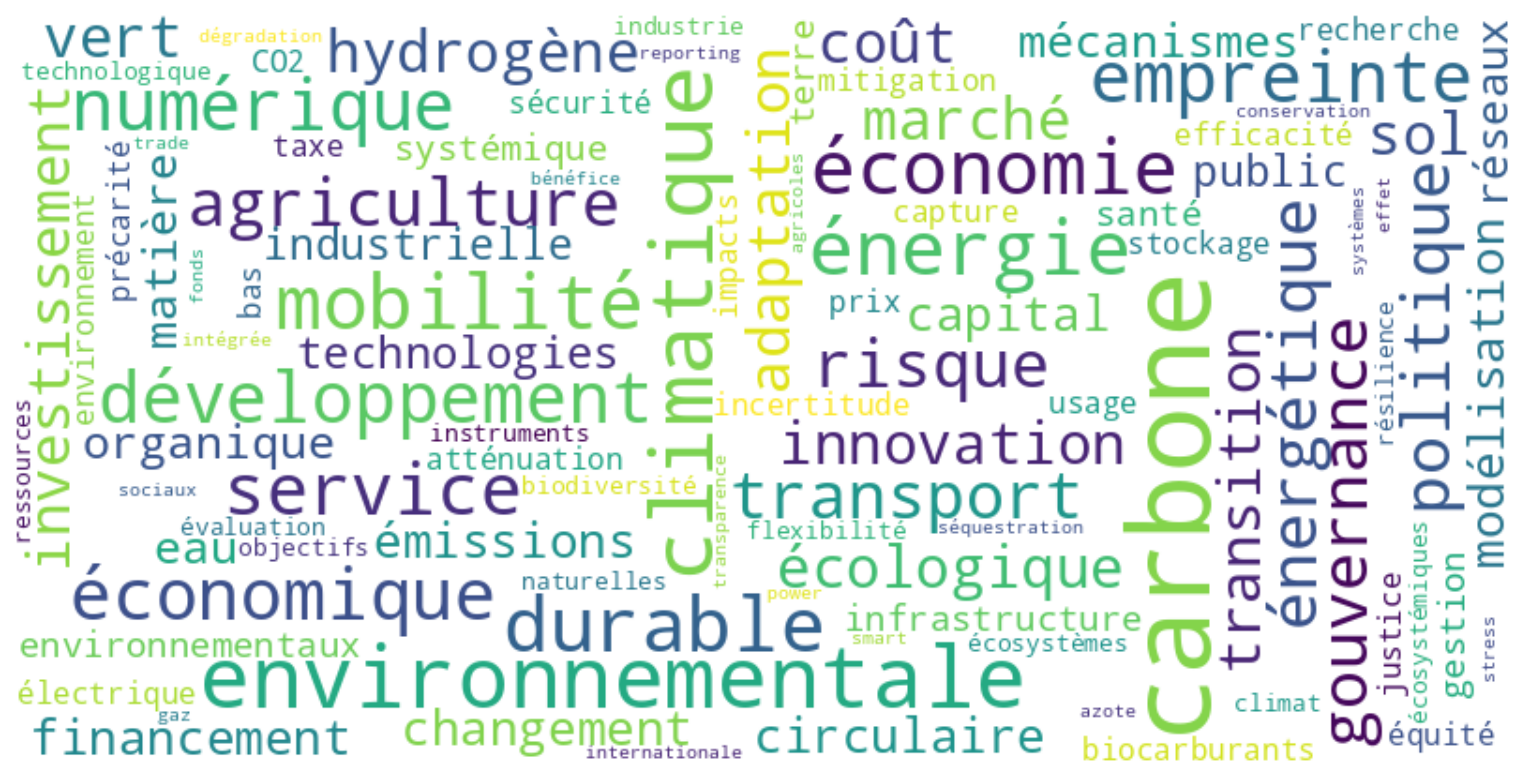
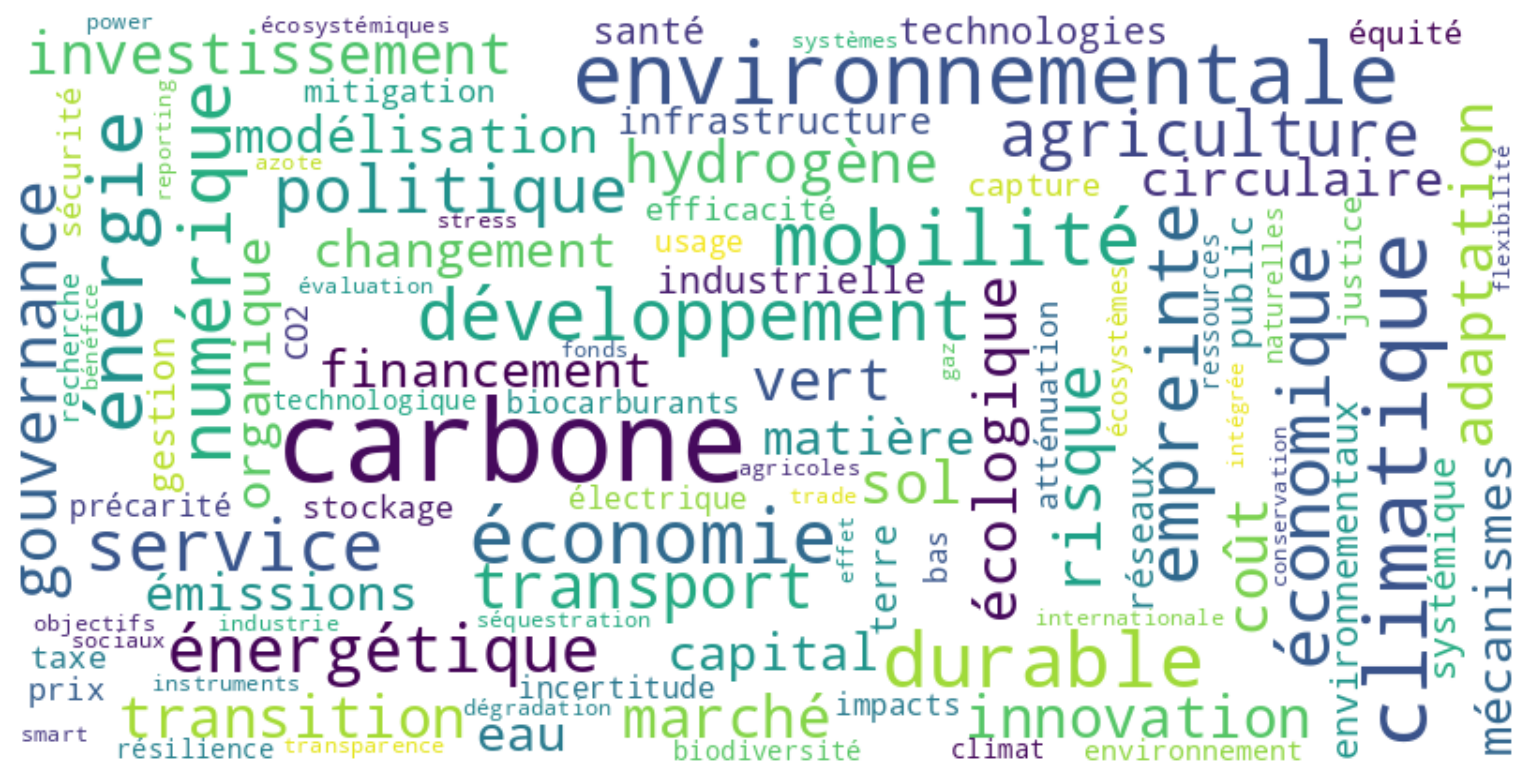
feat(wordcloud): generate from R2R titles if available, fallback to themes; import verify logic in frontend

diff --git a/src/frontend/generate_wordcloud.py b/src/frontend/generate_wordcloud.py
@@ -6,7 +6,19 @@ This script creates a wordcloud visualization from document themes and saves it
 as a static image that can be served by the analytics server.
 """
 
+import sys
 from pathlib import Path
+sys.path.append(str((Path(__file__).parent.parent / "intake").resolve()))
+
+import pandas as pd
+import config
+import verify
+from r2r import R2RClient
+from config import R2R_DEFAULT_BASE_URL
+
+# Patch sys.modules so 'intake' is recognized for relative imports in verify.py
+import types
+sys.modules['intake'] = types.SimpleNamespace(config=config)
 
 import matplotlib.pyplot as plt
 from wordcloud import WordCloud
@@ -199,18 +211,31 @@ def create_wordcloud(text: str, output_path: Path) -> None:
     print(f"Wordcloud saved to: {output_path}")
 
 
+def get_titles_from_r2r() -> list[str]:
+    """Fetch the list of document titles from the R2R server using verify.py logic."""
+    client = R2RClient(base_url=R2R_DEFAULT_BASE_URL)
+    df = verify.get_existing_documents(client)
+    if df is None or "title" not in df.columns:
+        return []
+    return df["title"].dropna().astype(str).tolist()
+
+
 def main() -> None:
-    """Generate the CIRED themes wordcloud."""
+    """Generate the CIRED themes wordcloud from R2R titles."""
     static_dir = Path(__file__).parent / "static"
     static_dir.mkdir(exist_ok=True)
     output_path = static_dir / "cired_wordcloud.png"
 
-    create_wordcloud(CIRED_THEMES, output_path)
+    # Pull titles from R2R
+    titles = get_titles_from_r2r()
+    if titles:
+        text = " ".join(titles)
+    else:
+        text = CIRED_THEMES
 
-    print("\nGenerated wordcloud with themes including:")
-    print("Climate change, energy transition, carbon pricing, economic modeling,")
-    print("renewable energy, sustainable development, environmental policy,")
-    print("and carbon capture technologies.")
+    create_wordcloud(text, output_path)
+
+    print("\nGenerated wordcloud from R2R titles (or fallback themes).")
 
 
 if __name__ == "__main__":

diff --git a/src/intake/verify.py b/src/intake/verify.py
@@ -17,7 +17,7 @@ from collections.abc import Hashable, Mapping
 import pandas as pd
 from r2r import R2RClient
 
-from intake.config import R2R_DEFAULT_BASE_URL, setup_logging
+from config import R2R_DEFAULT_BASE_URL, setup_logging
 
 DOCUMENTS_FILE = "documents.csv"
 DOCUMENTS_COLUMNS = [
